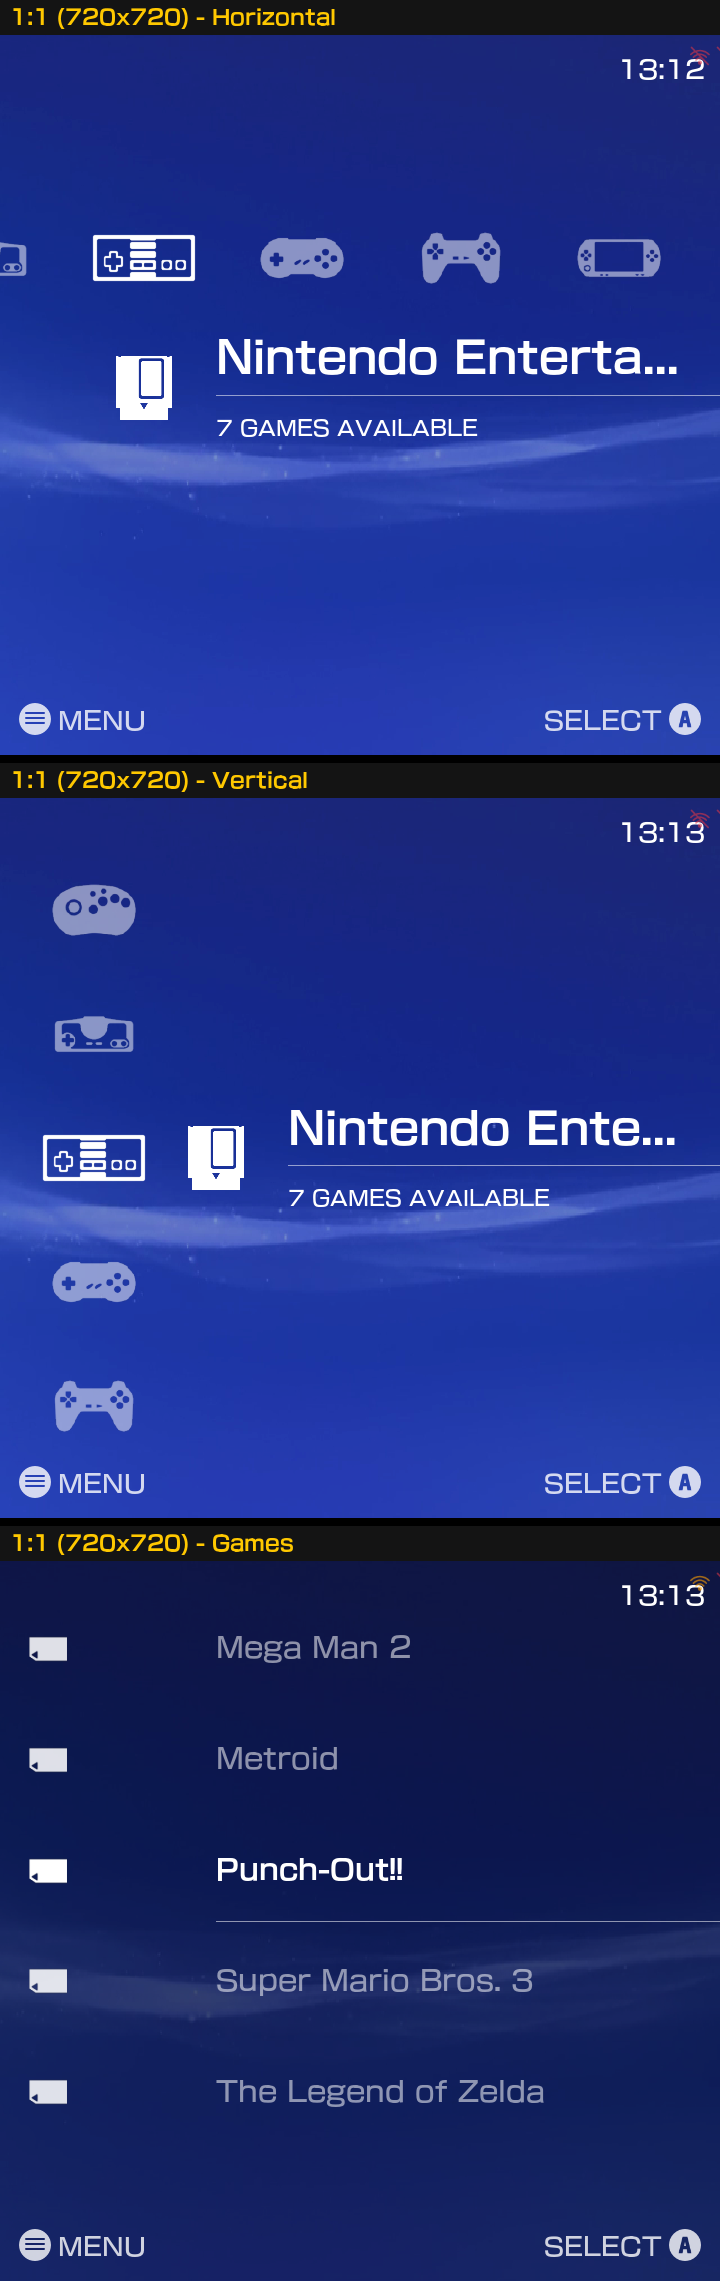
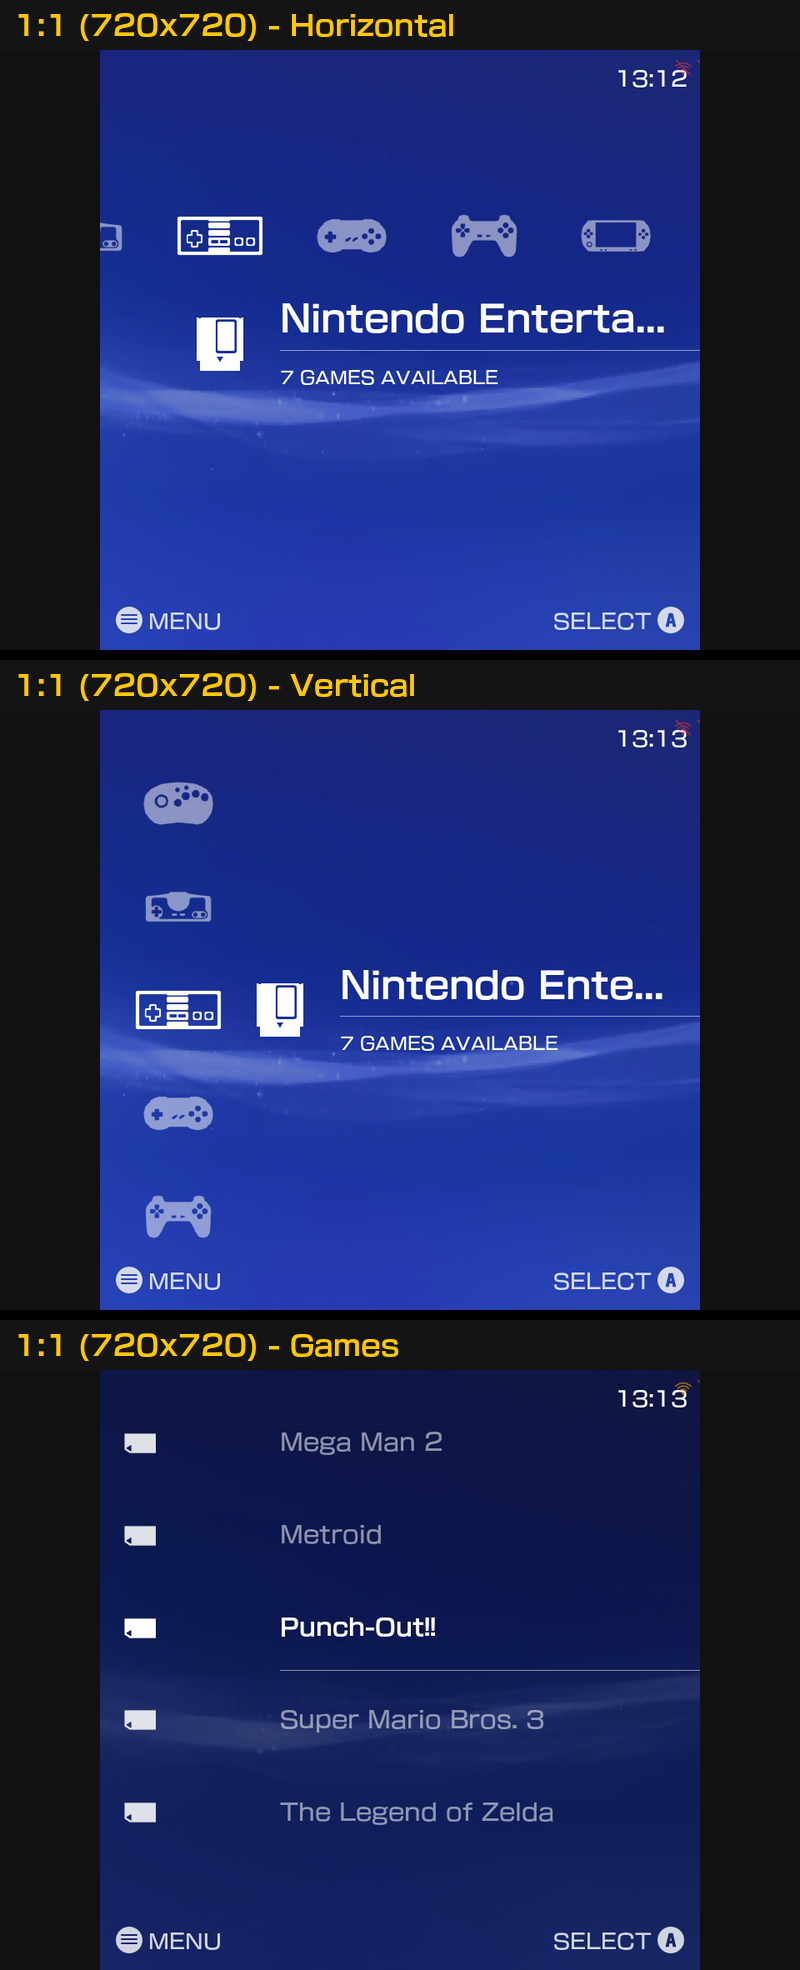
updated

diff --git a/README.md b/README.md
@@ -21,10 +21,7 @@ Optimized for **FCAMOD**, the EmulationStation fork by [christianhaitian](https:
 System screen (Horizontal and Vertical layouts) and game list on every supported aspect ratio. Single images are in [`screenshots/`](./screenshots).
 
 <p align="center">
-  <img src="./screenshots/4-3.png" width="24%" alt="4:3 (640x480)">
-  <img src="./screenshots/1-1.png" width="24%" alt="1:1 (720x720)">
-  <img src="./screenshots/16-9.png" width="24%" alt="16:9 (854x480)">
-  <img src="./screenshots/21-9.png" width="24%" alt="21:9 (2560x1080)">
+  <img src="./screenshots/overview.png" alt="4:3, 1:1, 16:9 and 21:9 screenshots">
 </p>
 <p align="center"><i>4:3 · 1:1 · 16:9 (beta) · 21:9 (beta)</i></p>
 
